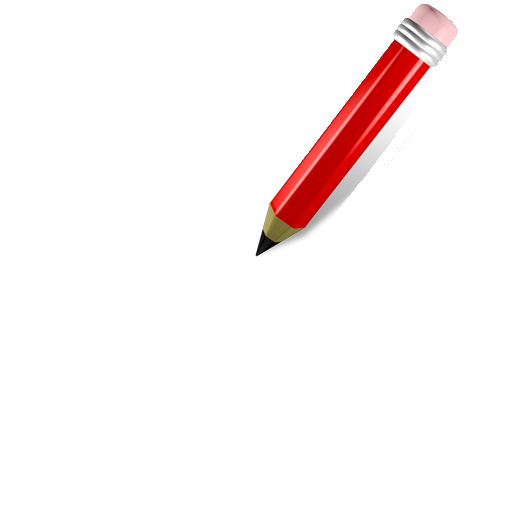
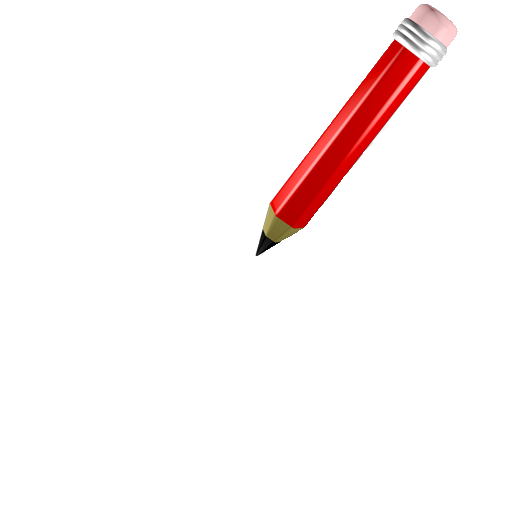
.

Changed region(s): [[0.5625, 0.25, 0.75, 0.4688], [0.5312, 0.4688, 0.5625, 0.5]]

diff --git a/src/view/ui/display/impl/swing/PencilDisplay.java b/src/view/ui/display/impl/swing/PencilDisplay.java
@@ -30,13 +30,17 @@ public class PencilDisplay extends JComponent {
         super.paintComponent(g2);
         if (ManagerLobby.myLobby.getCanvas().getPencil().isVisible())
             drawPencil(g2);
+        else {
+            int i = 0;
+
+        }
         setTransparency(0.4f);
     }
 
     private void setTransparency(float v) {
         byte [] pixels = ((DataBufferByte) image.getRaster().getDataBuffer()).getData();
         for (int i =0; i < pixels.length; i+=4) {
-            if (pixels[i] != 0x0) pixels [i]= (byte) v;
+            if (pixels[i] != 0x0) pixels [i]= 0x8;
         }
     }
 
